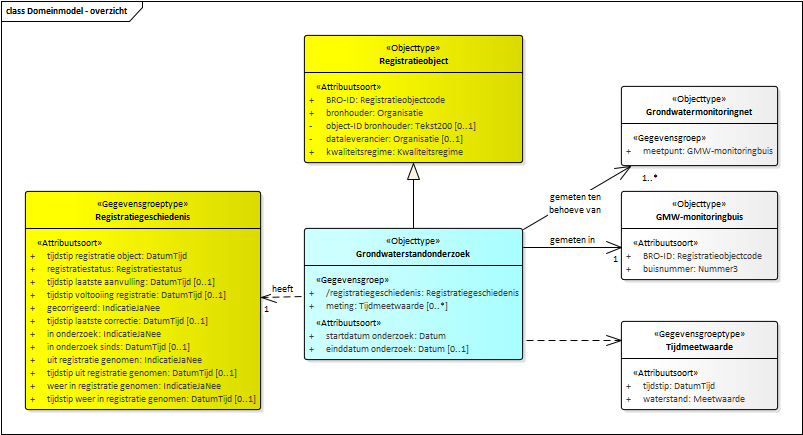
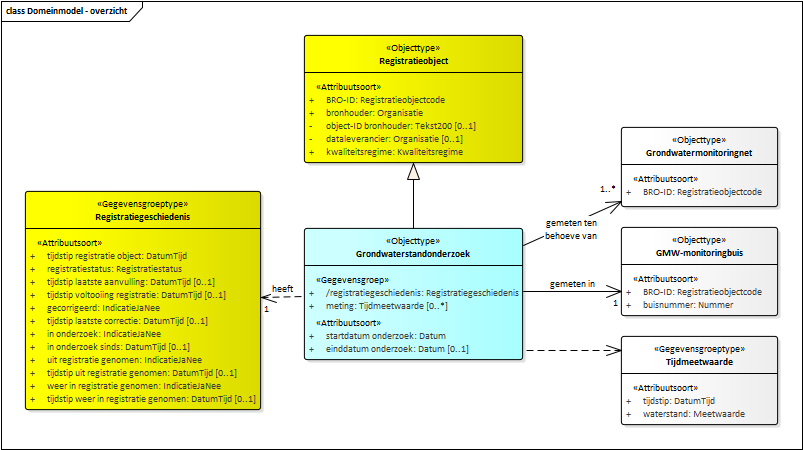
Conceptualmodel-GrondwaterstandonderzoekGLD-0.1-1-20190617-20190808-144651

diff --git a/data/GLD-cat.html b/data/GLD-cat.html
@@ -1,14 +1,14 @@
 <section id="cat" class="normative" level="1">
    <h2>Gegevensdefinitie</h2>
    <p><b>Deze tekst is normatief.</b>
-      <!--Conceptualmodel-GrondwaterstandonderzoekGLD-0.1-1-20190617-20190808-144253 imvertor 1.53.4--></p>
+      <!--Conceptualmodel-GrondwaterstandonderzoekGLD-0.1-1-20190617-20190808-144651 imvertor 1.53.4--></p>
    <section id="" level="3">
       <h3>Het domeinmodel </h3>
       <div class="imageinfo overview"><img src="data/Images/EAID_08E27657_5603_4b75_BB8B_47B282A97D63.png" usemap="#imagemap-EAID_08E27657_5603_4b75_BB8B_47B282A97D63"><map name="imagemap-EAID_08E27657_5603_4b75_BB8B_47B282A97D63">
-            <area shape="rect" coords="621,166,778,86" alt="" href="#graph_EAID_68FD3B87_BA7B_485e_A5DC_4804CB98C818">
-            <area shape="rect" coords="621,410,778,321" alt="" href="#graph_EAID_5FC959F0_5ED2_47e7_8C6C_68C408128425">
+            <area shape="rect" coords="621,207,778,127" alt="" href="#graph_EAID_68FD3B87_BA7B_485e_A5DC_4804CB98C818">
+            <area shape="rect" coords="621,425,778,336" alt="" href="#graph_EAID_5FC959F0_5ED2_47e7_8C6C_68C408128425">
             <area shape="rect" coords="25,410,261,191" alt="" href="#graph_EAID_0D009A59_1E9A_4fc2_867A_9006A9464AA7">
-            <area shape="rect" coords="621,280,778,191" alt="" href="#graph_EAID_3337CDCE_0A5D_4aee_AEB0_14AF7652B102">
+            <area shape="rect" coords="621,316,778,227" alt="" href="#graph_EAID_3337CDCE_0A5D_4aee_AEB0_14AF7652B102">
             <area shape="rect" coords="304,360,523,228" alt="" href="#graph_EAID_5876720F_795D_40b5_82B8_BC782B71FA3A">
             <area shape="rect" coords="304,163,523,35" alt="" href="#graph_EAID_04FC4CF0_BE4E_421a_A62C_E3F00BED26A0"></map><p><b>Domeinmodel - overzicht</b></p>
       </div>
@@ -552,8 +552,8 @@
                      gemeten ten behoeve van 1 of meer Grondwatermonitoringnet<br></td>
                </tr>
             </tbody>
-         </table><a class="anchor" name="detail_attribute_Model_Grondwatermonitoringnet_meetpunt"></a><section id="detail_attribute_Model_Grondwatermonitoringnet_meetpunt" level="5">
-            <h5> meetpunt</h5>
+         </table><a class="anchor" name="detail_attribute_Model_Grondwatermonitoringnet_bROID"></a><section id="detail_attribute_Model_Grondwatermonitoringnet_bROID" level="5">
+            <h5> BRO-ID</h5>
             
             <table>
                <colgroup width="30%"></colgroup>
@@ -575,13 +575,14 @@
                      <th>Definitie</th>
                      <td>
                         
-                        <p xmlns="http://www.w3.org/1999/xhtml" xmlns:html="http://www.w3.org/1999/xhtml" xmlns:imvert="http://www.imvertor.org/schema/system">De buis in de grondwatermonitoringput waar het grondwater is bemonsterd. </p>
+                        <p xmlns="http://www.w3.org/1999/xhtml" xmlns:html="http://www.w3.org/1999/xhtml" xmlns:imvert="http://www.imvertor.org/schema/system">De identificatie van het <em>grondwatermonitoringnet</em> in de basisregistratie ondergrond.
+                        </p>
                         
                      </td>
                   </tr>
                   <tr>
                      <th>Kardinaliteit</th>
-                     <td></td>
+                     <td>1</td>
                   </tr>
                   <tr>
                      <th>Domein</th>
@@ -589,22 +590,15 @@
                   </tr>
                   <tr>
                      <th>&nbsp;&nbsp;Naam</th>
-                     <td>GMW-monitoringbuis</td>
+                     <td>Registratieobjectcode</td>
                   </tr>
                   <tr>
                      <th>&nbsp;&nbsp;Type</th>
-                     <td>Waardelijst uitbreidbaar</td>
+                     <td>Code</td>
                   </tr>
                   <tr>
-                     <th>Toelichting</th>
-                     <td>
-                        
-                        <p xmlns="http://www.w3.org/1999/xhtml" xmlns:html="http://www.w3.org/1999/xhtml" xmlns:imvert="http://www.imvertor.org/schema/system">Het <em>BRO-ID</em> van de <em>grondwatermonitoringput</em> wordt opgenomen plus het volgnummer van de specifieke buis in de put.
-                           In brondocumenten voor het aanleveren van meetpunten is het mogelijk om de <em>putcode</em> op te geven in plaats van het <em>BRO-ID</em> van de <em>grondwatermonitoringput</em>. Bij inname van de gegevens wordt dan het bijbehorende <em>BRO-ID</em> opgezocht en vastgelegd.<br clear="none"></br>
-                           
-                        </p>
-                        
-                     </td>
+                     <th>&nbsp;&nbsp;Opbouw</th>
+                     <td>GMNNNNNNNNNNNNN</td>
                   </tr>
                   <tr>
                      <th>Materiële geschiedenis</th>
@@ -745,11 +739,7 @@
                   </tr>
                   <tr>
                      <th>&nbsp;&nbsp;Naam</th>
-                     <td>Nummer3</td>
-                  </tr>
-                  <tr>
-                     <th>&nbsp;&nbsp;Type</th>
-                     <td>Waardelijst uitbreidbaar</td>
+                     <td>Nummer </td>
                   </tr>
                   <tr>
                      <th>Materiële geschiedenis</th>
